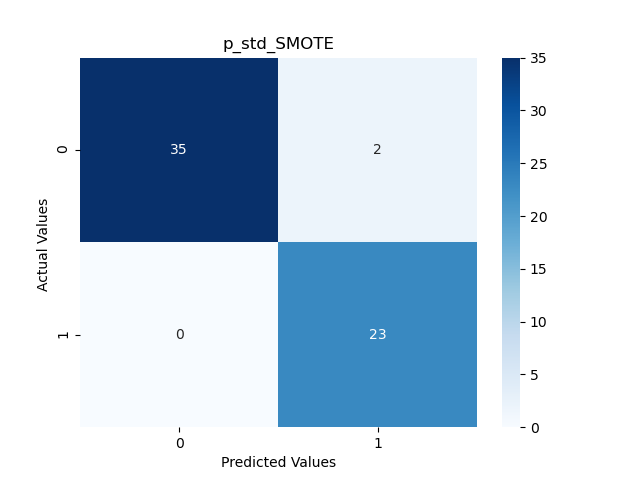
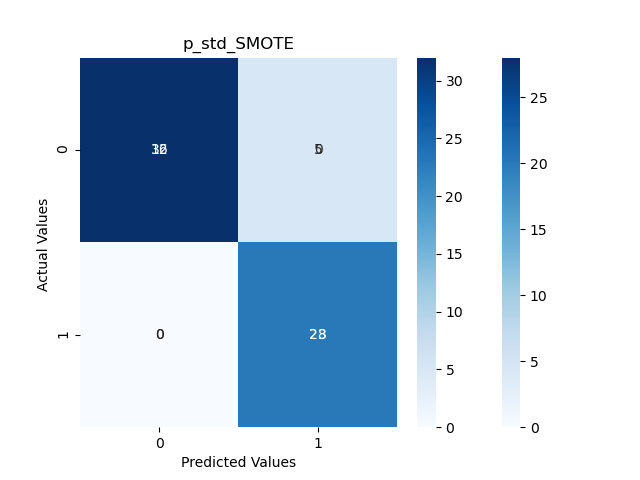
fix bug

diff --git a/perceptron.py b/perceptron.py
@@ -4,7 +4,7 @@ import pandas as pd
 from statistics import mean
 
 from utils.read_data import read_data
-from utils.metrics import metrics
+from utils.metrics import metrics, plot_val_cf_matrix
 from utils.Add_feat import Add_feat
 
 from sklearn.preprocessing import MinMaxScaler, StandardScaler
@@ -35,7 +35,7 @@ args = parser.parse_args()
 def J_value(data, label, w):
     J = 0
     for i in range(len(label)):
-        z = 1 if label[i] == 1 else -1
+        z = 1 if label.iloc[i] == 1 else -1
         x = data[i]
         L = np.dot(w, x) * z
         if  L <= 0: J += -L
@@ -95,8 +95,8 @@ def train(X, y, N, idx, w, it, lr, not_l_s, c_c, w_vec, J_vec):
                 w_vec[it-9501] = w
                 if it == 10000: break
             x = X[i]
-            z = 1 if y[i] == 1 else -1
-            if np.dot(w, x) * z <= 0:
+            z = 1 if y.iloc[i] == 1 else -1
+            if np.dot(w, x) * z <= 1:
                 w = w + lr * z * x
                 if c_c > 0:
                     c_c = 0
@@ -121,9 +121,9 @@ def main():
     # drop first column ("Date" feature)
     X_tr, X_test = X_tr.iloc[:,1:], X_test.iloc[:,1:]
     if args.feat_reduction:
-        X_tr = X_tr.drop(columns=['Temperature', 'Ws'])
-        X_test = X_test.drop(columns=['Temperature', 'Ws'])
-    F1_result, Acc_result = [0]*int(args.M), [0]*int(args.M)
+        X_tr = X_tr.drop(columns=['Temperature','Ws','BUI','RH'])
+        X_test = X_test.drop(columns=['Temperature','Ws','BUI','RH'])
+    F1_result, Acc_result, TP, TN, FP, FN = [0]*int(args.M), [0]*int(args.M), [0]*int(args.M), [0]*int(args.M), [0]*int(args.M), [0]*int(args.M)
     sm = SMOTE(random_state=42)
     if args.normalization or args.standardization:
         if args.normalization: scaler = MinMaxScaler()
@@ -155,9 +155,10 @@ def main():
                         not_linearly_separable, correctly_classified, w_vec, J_vec)
             
             y_val_pred = predict(X_val, y_val, w_hat)
-            F1_result[m], Acc_result[m] = metrics(y_val, y_val_pred, "perceptron", work='val')
+            F1_result[m], Acc_result[m], TP[m], TN[m], FP[m], FN[m] = metrics(y_val, y_val_pred, "perceptron", work='val')
 
         print("Val F1_score=", mean(F1_result), "Val Accuracy=", mean(Acc_result))
+        plot_val_cf_matrix(y_val, y_val_pred, args.plot_title, mean(TP), mean(TN), mean(FP), mean(FN))
         print("Training with full dataset!")
         w, it, lr, not_linearly_separable, correctly_classified, w_vec, J_vec \
                                                                     = init_train_param(D)
@@ -176,14 +177,14 @@ def main():
         X_val, y_val = X_tr.iloc[-46:], y_tr.iloc[-46:]
         X_tr_prime, y_tr_prime = X_tr.iloc[:-46], y_tr.iloc[:-46]
          # Shuffle
-        N = X_tr_prime.shape[0] 
+        N = X_tr_prime.shape[0]-8
         idx = np.arange(N)
         D = X_tr_prime.shape[1]
         w, it, lr, not_linearly_separable, correctly_classified, w_vec, J_vec \
-                                                                = init_train_param(D)
+                                                                = init_train_param(D+1)
+        print("X_tr_prime shape 1=", X_tr_prime.shape)
         X_tr_prime, X_val = Add_feat(X_tr_prime, X_val)
-        # drop first column ("Date" feature)
-        X_tr_prime, X_val = X_tr_prime.iloc[:,1:], X_val.iloc[:,1:]
+        print("X_tr_prime shape 2=", X_tr_prime.shape)
         y_tr_prime = y_tr_prime[4:-4]
         
         if args.use_SMOTE:
@@ -199,11 +200,9 @@ def main():
 
         print("Training with full dataset!")
         X_tr, X_test = Add_feat(X_tr, X_test)
-        # drop first column ("Date" feature)
-        X_tr, X_test = X_tr.iloc[:,1:], X_test.iloc[:,1:]
         y_tr = y_tr[4:-4]
         w, it, lr, not_linearly_separable, correctly_classified, w_vec, J_vec \
-                                                                    = init_train_param(D)
+                                                                    = init_train_param(D+1)
         if args.use_SMOTE:
                 X_tr, y_tr = sm.fit_resample(X_tr, y_tr)
         if args.normalization or args.standardization:

diff --git a/data_analysis.py b/data_analysis.py
@@ -1,0 +1,25 @@
+import pandas as pd
+import seaborn as sns
+
+import matplotlib.pyplot as plt
+from utils.read_data import read_data
+
+def main(): 
+    # numeric feature describe
+    X_tr, _ = read_data('datasets/algerian_fires_train.csv')
+    X_test, _ = read_data('datasets/algerian_fires_test.csv')
+    num_tr_data = X_tr.select_dtypes(['int64','float64'])
+    num_test_data = X_test.select_dtypes(['int64','float64'])
+    print (num_tr_data.describe().transpose())
+
+    # feature KDE
+    for i in list(num_tr_data.columns):
+        sns.histplot(num_tr_data[i]).set_title(i)
+        plt.savefig('feat_KDE/'+i+'.png')
+
+    for i in list(num_test_data.columns):
+        sns.histplot(num_test_data[i]).set_title(i)
+        plt.savefig('feat_KDE_test/'+i+'.png')
+
+if __name__ == '__main__':
+    main()

diff --git a/README.md b/README.md
@@ -50,7 +50,7 @@
     - Test F1-score: 0.9583
     - Test Accuracy: 0.9667
 
-    `python3 perceptron.py --M 4 --epoch 200 --standardization --use_SMOTE --feat_reduction --plot_title p_feat_reduct` 
+    `python3 perceptron.py --M 4 --epoch 200 --standardization --feat_reduction --plot_title p_feat_reduct` 
     - Four least contributing features: Temperature -> Ws -> BUI -> RH
     - Drop (1,2,3,4) features
     - Val F1-score: (0.9725, 0.9805, 0.9763, 0.9875)
@@ -58,7 +58,7 @@
     - Test F1-score: (0.9583, 0.9787, 0.9388, 0.9583)
     - Test Accuracy: (0.9667, 0.9833, 0.95, 0.9667)
 
-    `python3 perceptron.py --standardization --use_SMOTE --feat_reduction --extra_feat --plot_title p_add_1_feat` 
+    `python3 perceptron.py --standardization --feat_reduction --extra_feat --plot_title p_add_1_feat` 
     - Val F1-score: 0.9882
     - Val Accuracy: 0.9783
     - Test F1-score: 0.9787
